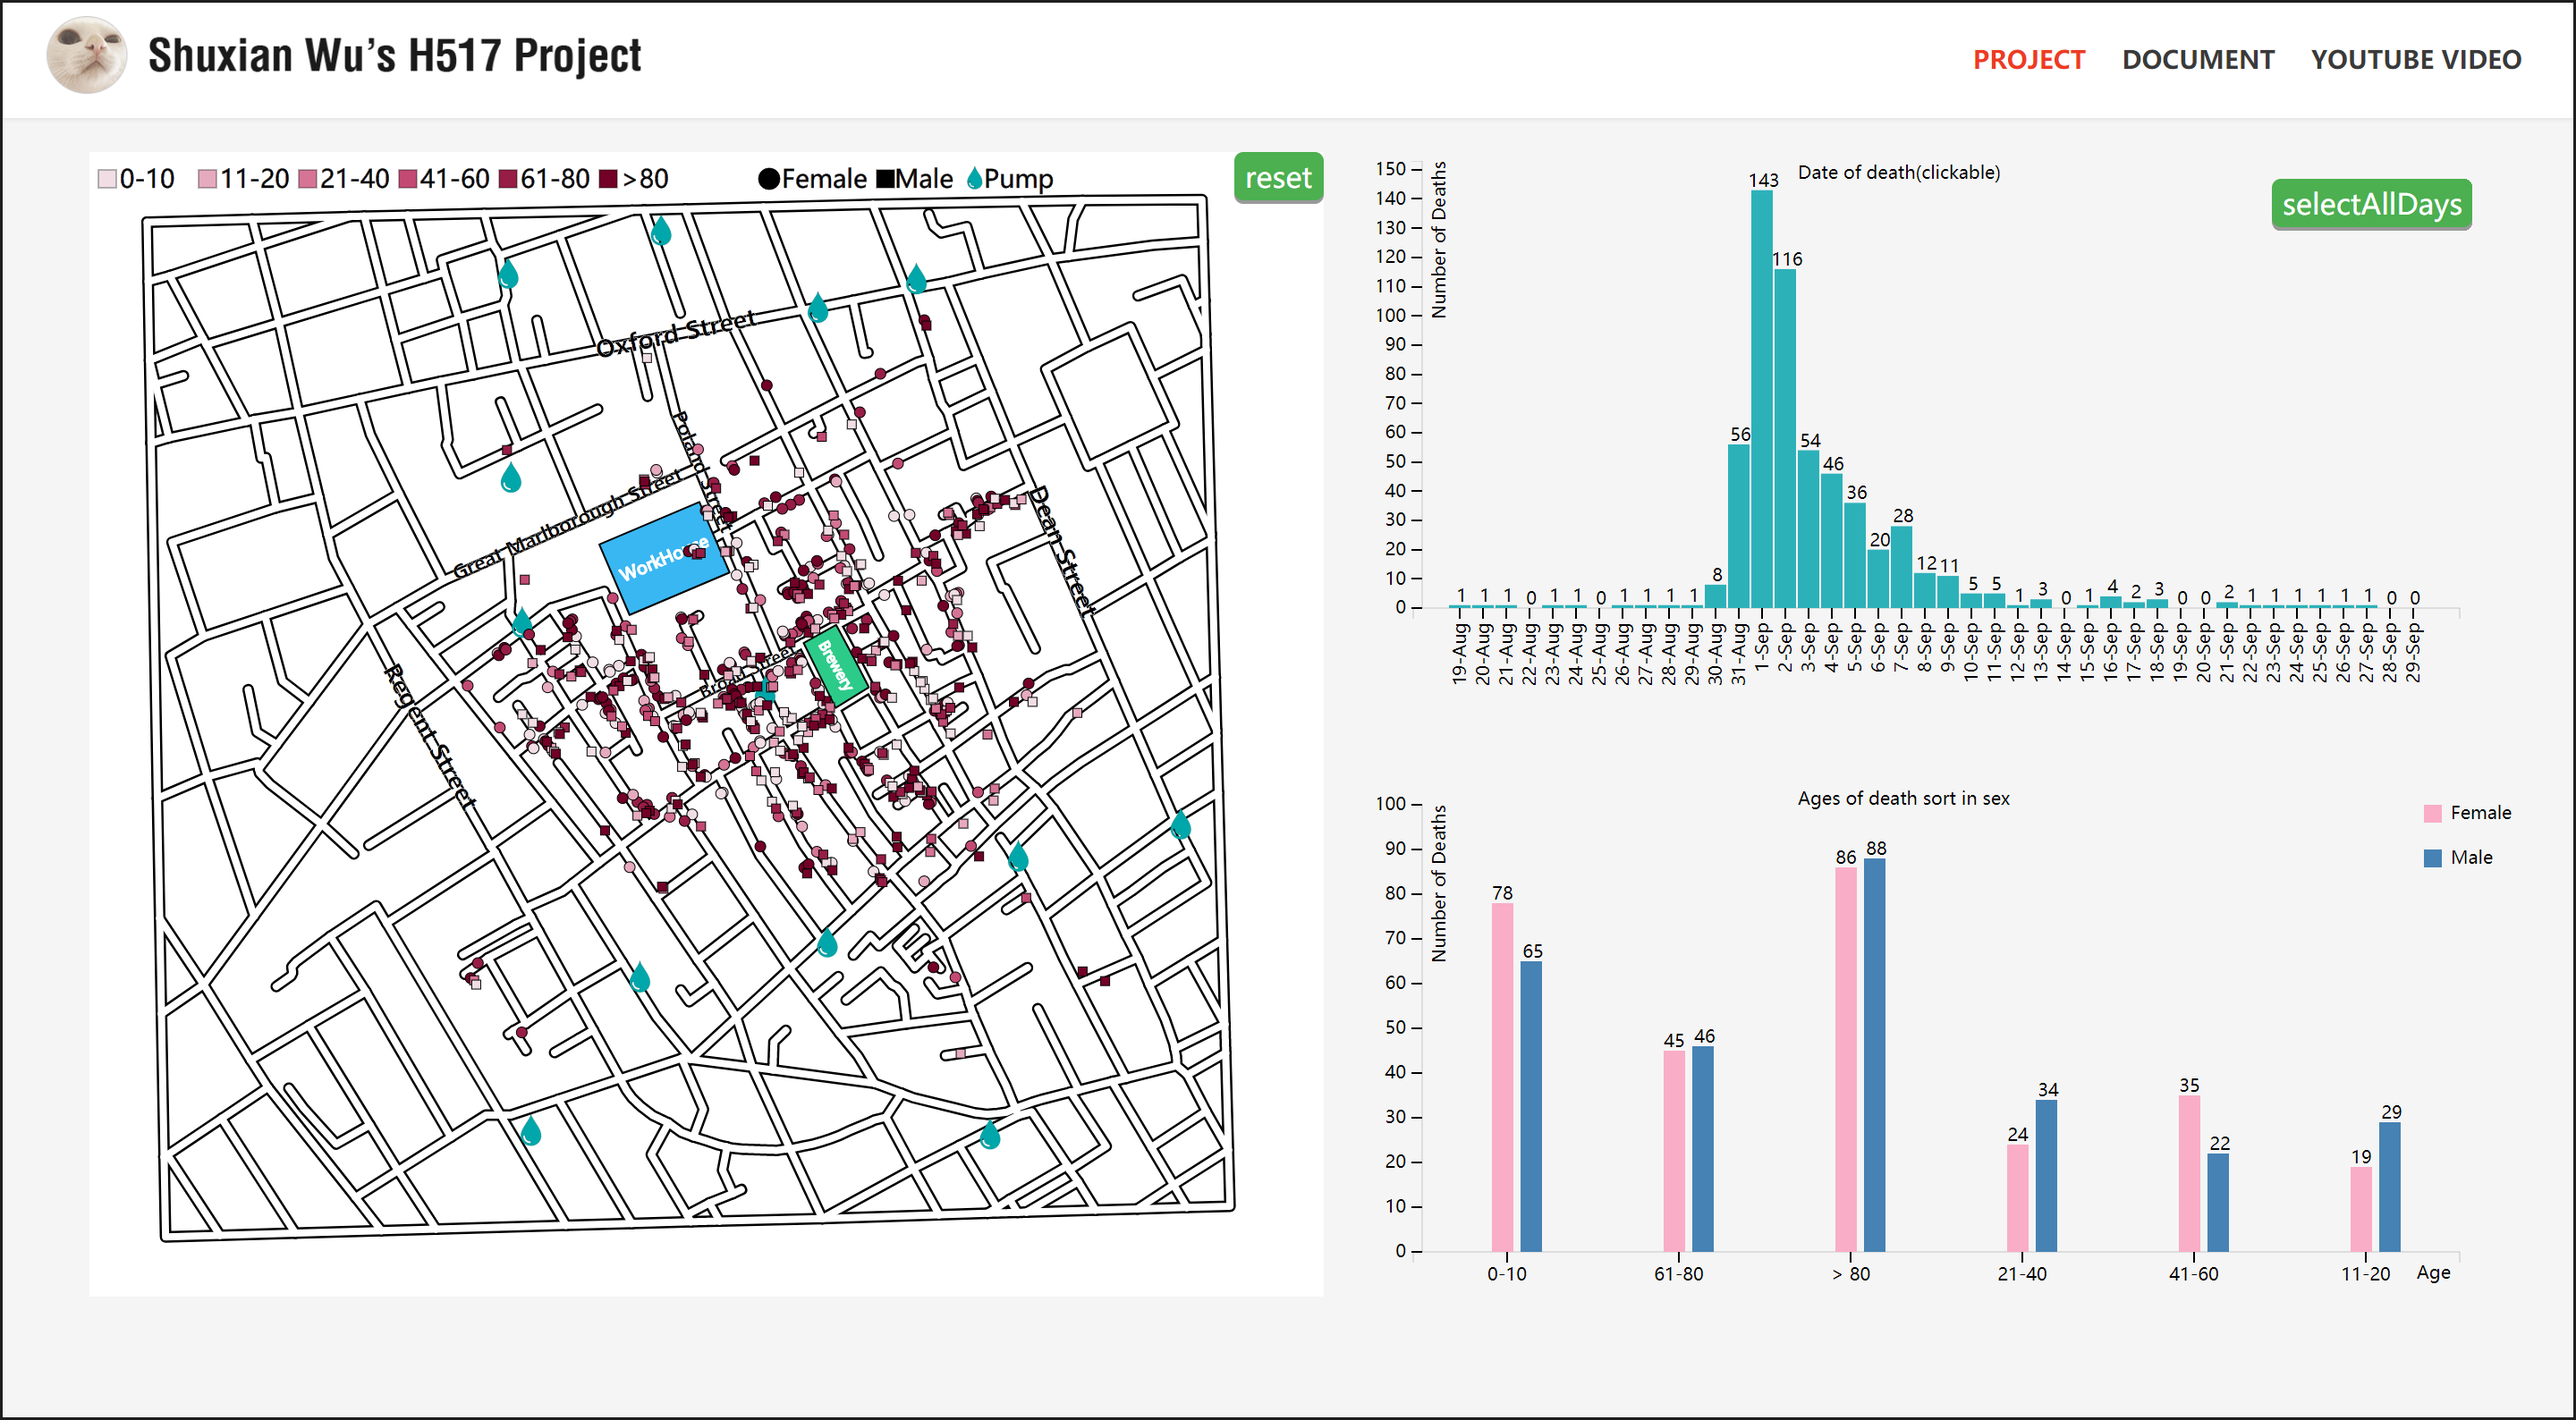
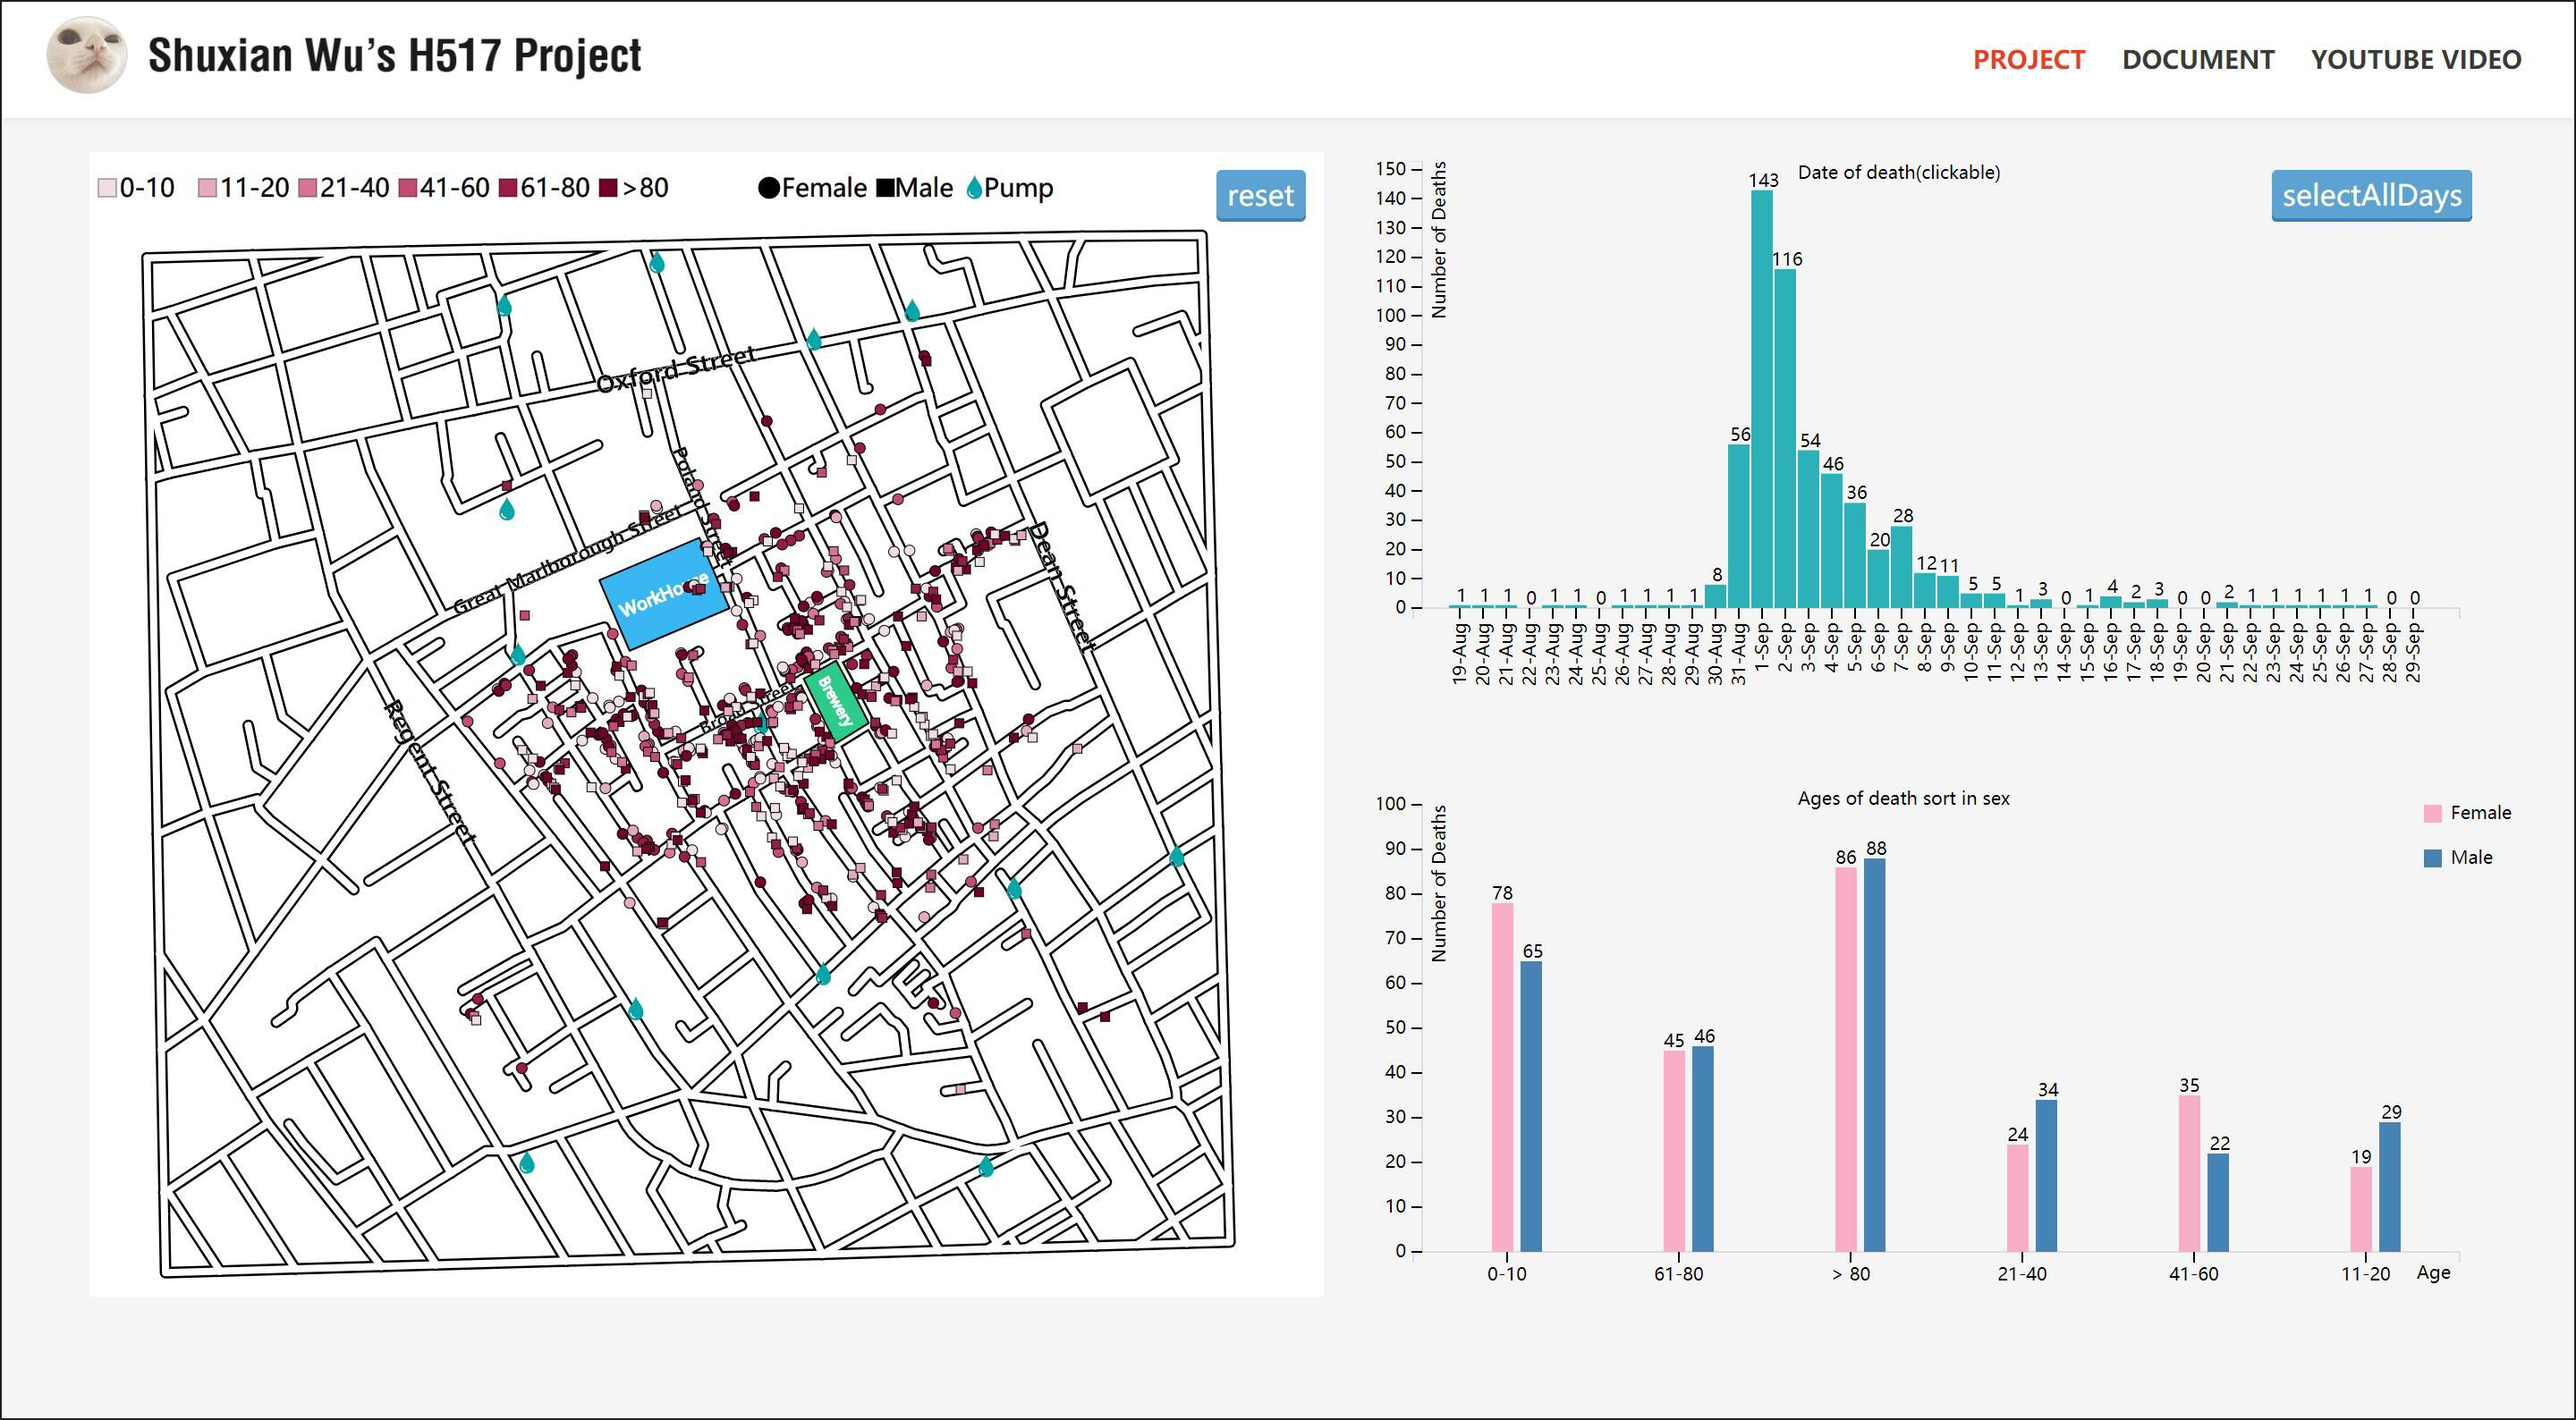
modify

diff --git a/index.html b/index.html
@@ -156,7 +156,7 @@
                 var hscale  = scale*width  / (bounds[1][0] - bounds[0][0])  ;
                 var vscale  = scale*(height - 60) / (bounds[1][1] - bounds[0][1]) ;
                 var scale   = (hscale < vscale) ? hscale : vscale;
-                var offset  = [width - (bounds[0][0] + bounds[1][0])/2, height - (bounds[0][1] + bounds[1][1] + 150)/2];
+                var offset  = [width - (bounds[0][0] + bounds[1][0]-20)/2, height - (bounds[0][1] + bounds[1][1] + 110)/2];
                 center1 = center;
                 scale1 = scale;
                 offset1 =  offset;
@@ -448,7 +448,10 @@
 			    .on("zoom", zoomed);
 
 			function zoomed() {
-			  
+
+			  var resetButton = document.getElementById("reset");
+              resetButton.disabled=false;
+
 			  xZoom=d3.event.translate[0];
 			  yZoom=d3.event.translate[1];
 			  sZoom=d3.event.scale;
@@ -467,12 +470,12 @@
 			    .append("foreignObject")
 			    .attr("class", "reset")
 			    .attr("float","left")
-			    .attr("x", width-50)
-			    .attr("y", 0)
+			    .attr("x", width-60)
+			    .attr("y", 10)
 			    .append("xhtml:body")
-			    .html(function(d){ return "<form><input type=button class=button  value= "+"reset"+" /></form>"})
-			     .on("click",function(){
-			      d3.transition().duration(250).tween("zoom", function() {
+			    .html(function(d){ return "<form><input type=button class=button id=reset value=reset disabled=true /></form>"})
+			    .on("click",function(){
+                  d3.transition().duration(250).tween("zoom", function() {
 			        var si = d3.interpolate(sZoom, 1);
 			        var xi = d3.interpolate(xZoom, 0);
 			        var yi = d3.interpolate(yZoom, 0);
@@ -512,14 +515,14 @@
                 var g = d3.select(this);
                 g.append("rect")
                   .attr("x", i*56+5)
-                  .attr("y", 10)
+                  .attr("y", 15)
                   .attr("width", 10)
                   .attr("height", 10)
                   .style("fill", color[String(i)][1]);
                 
                 g.append("text")
                   .attr("x", i*56+17)
-                  .attr("y", 20)
+                  .attr("y", 25)
                   .attr("height",10)
                   .attr("width",100)
                   .style("fill","black")
@@ -535,7 +538,7 @@
 			            	  .attr("height", 10);*/
 			           	legendPump.append("text")
 			            	  .attr("x", width-190)
-			            	  .attr("y", 20)
+			            	  .attr("y", 25)
 			            	  .text("Pump");
 			var svg_name = "https://raw.githubusercontent.com/Nekogulu/SX-W/master/images/drop6.svg";
 			d3.xml(svg_name,"image/svg+xml", function(xml) { 
@@ -550,7 +553,7 @@
 				    // Clone and append xml node to each data binded element.
 				    var imported_svg = this.appendChild(imported_node.cloneNode(true));
 				  })
-				  .attr("transform", function(d,i){return "translate(" + (width-202) + ",8) scale(0.03)";});
+				  .attr("transform", function(d,i){return "translate(" + (width-202) + ",13) scale(0.03)";});
 			});
 
 
@@ -560,24 +563,24 @@
            legendMale.append("g")
             	  .append("rect")
             	  .attr("x", width-250)
-            	  .attr("y", 10)
+            	  .attr("y", 15)
             	  .attr("width", 10)
             	  .attr("height", 10)
             	  .style("fill", "black");
            	legendMale.append("text")
             	  .attr("x", width-240)
-            	  .attr("y", 20)
+            	  .attr("y", 25)
             	  .text("Male");
 
             var ledgendFemale = legendMap.selectAll('.map').data("2").enter();
            ledgendFemale.append("g")
             	  .append("circle")
             	  .attr("r",6)
-            	  .attr("transform", "translate("+(width-310)+",15)")
+            	  .attr("transform", "translate("+(width-310)+",20)")
             	  .attr("fill", "black");
            	ledgendFemale.append("text")
             	  .attr("x", width-303)
-            	  .attr("y", 20)
+            	  .attr("y", 25)
             	  .text("Female");
 
 //chart1-------------------------------------------------------------------------
@@ -620,6 +623,10 @@
                   .attr("height", function(d) { return heightChart - y(d.number); })
                   //.attr("type","checkbox")
                   .on("click",function(d){
+
+                    var seADBt = document.getElementById("setDay");
+                    seADBt.disabled = false;
+
                     var day = d.label;
                     deathdayChart.selectAll(".chart1Bar")
                         .style("fill","#2db1b9")
@@ -630,9 +637,6 @@
 
                     newDataFemale = newData.filter(function(d){return d.properties.sex == "female"});
                     newDataMale = newData.filter(function(d){return d.properties.sex == "male"});
-
-                   console.log(newDataFemale);
-                   console.log(newDataMale);
 
                   	               
 	                    newRowsFemale = deathSvg.selectAll("circle")
@@ -691,6 +695,9 @@
                .attr("fill", "black")
                .on("click",function(d){
 
+                    var seADBt1 = document.getElementById("setDay");
+                    seADBt1.disabled = false;
+
                     var day = d.label;
                     deathdayChart.selectAll(".chart1Bar")
                         .style("fill","#2db1b9")
@@ -701,9 +708,6 @@
 
                     newDataFemale = newData.filter(function(d){return d.properties.sex == "female"});
                     newDataMale = newData.filter(function(d){return d.properties.sex == "male"});
-
-                   console.log(newDataFemale);
-                   console.log(newDataMale);
 
                   	               
 	                    newRowsFemale = deathSvg.selectAll("circle")
@@ -747,10 +751,10 @@
                         .append("foreignObject")
                         .attr("class", "selectAllDays")
                         .attr("x", widthChart - 150)
-                        .attr("y", 10)
+                        .attr("y", 5)
                         .attr("width", 60)
                         .append("xhtml:body")
-                        .html(function(d){ return "<form><input type=button class=button value= "+"selectAllDays"+" /></form>"})
+                        .html(function(d){ return "<form><input type=button class=button id=setDay value=selectAllDays /></form>"})
                         .on("click",updateDeaths);
 
 
@@ -949,8 +953,6 @@
                     newDataFemale = newData.filter(function(d){return d.properties.sex == "female"});
                     newDataMale = newData.filter(function(d){return d.properties.sex == "male"});
 
-                   console.log(newDataFemale);
-                   console.log(newDataMale);
 
                   	                
 	                    newRowsFemale = deathSvg.selectAll("circle")

diff --git a/css/custom.css b/css/custom.css
@@ -44,6 +44,8 @@ a:focus{
 
 .button:hover {background-color: #438bbe}
 
+.button:disabled {background-color: grey}
+
 .button:active {
   background-color: #4781aa;
   box-shadow: 0 2px #164b70;
